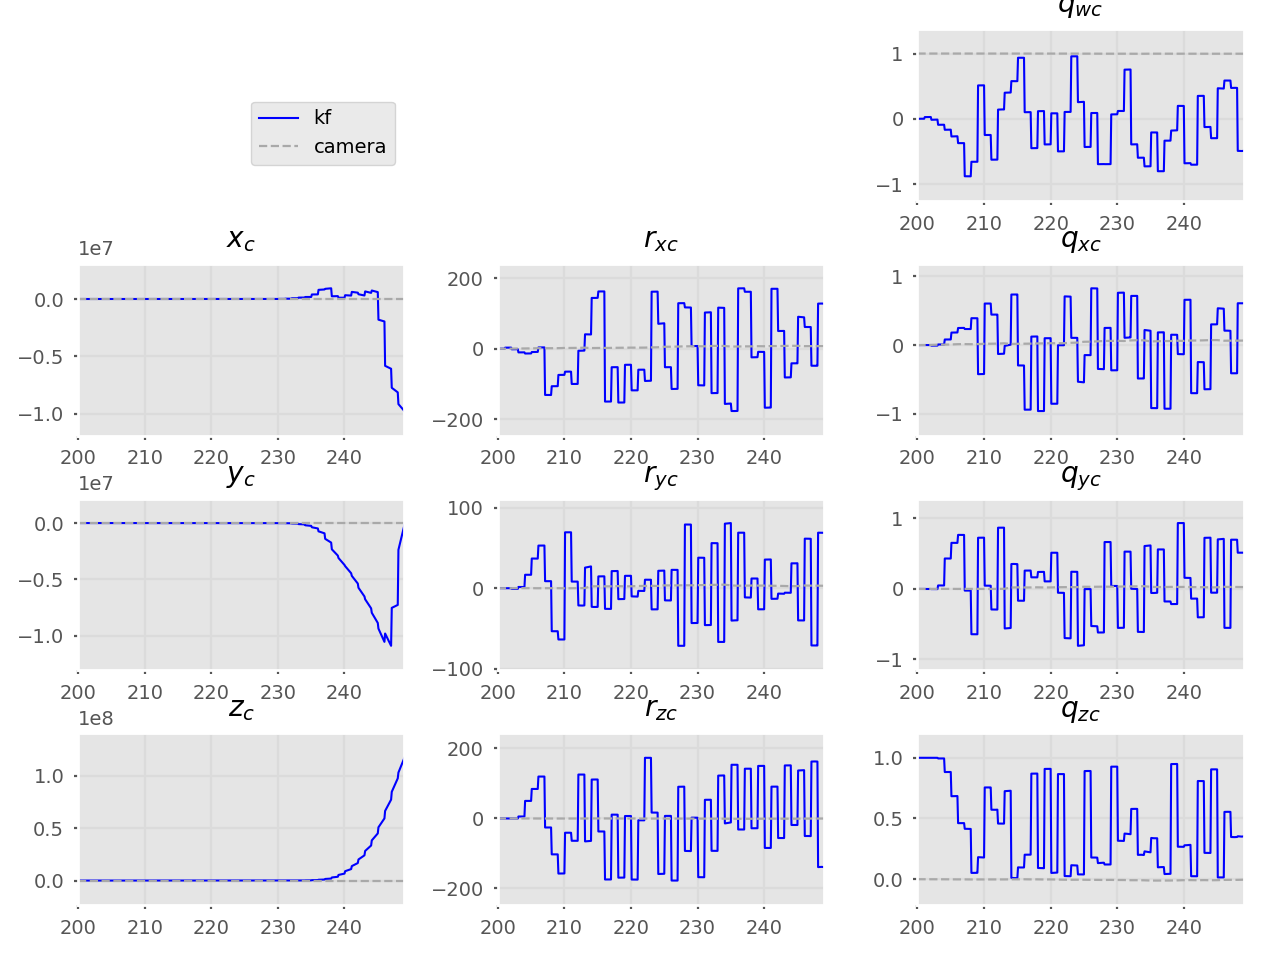
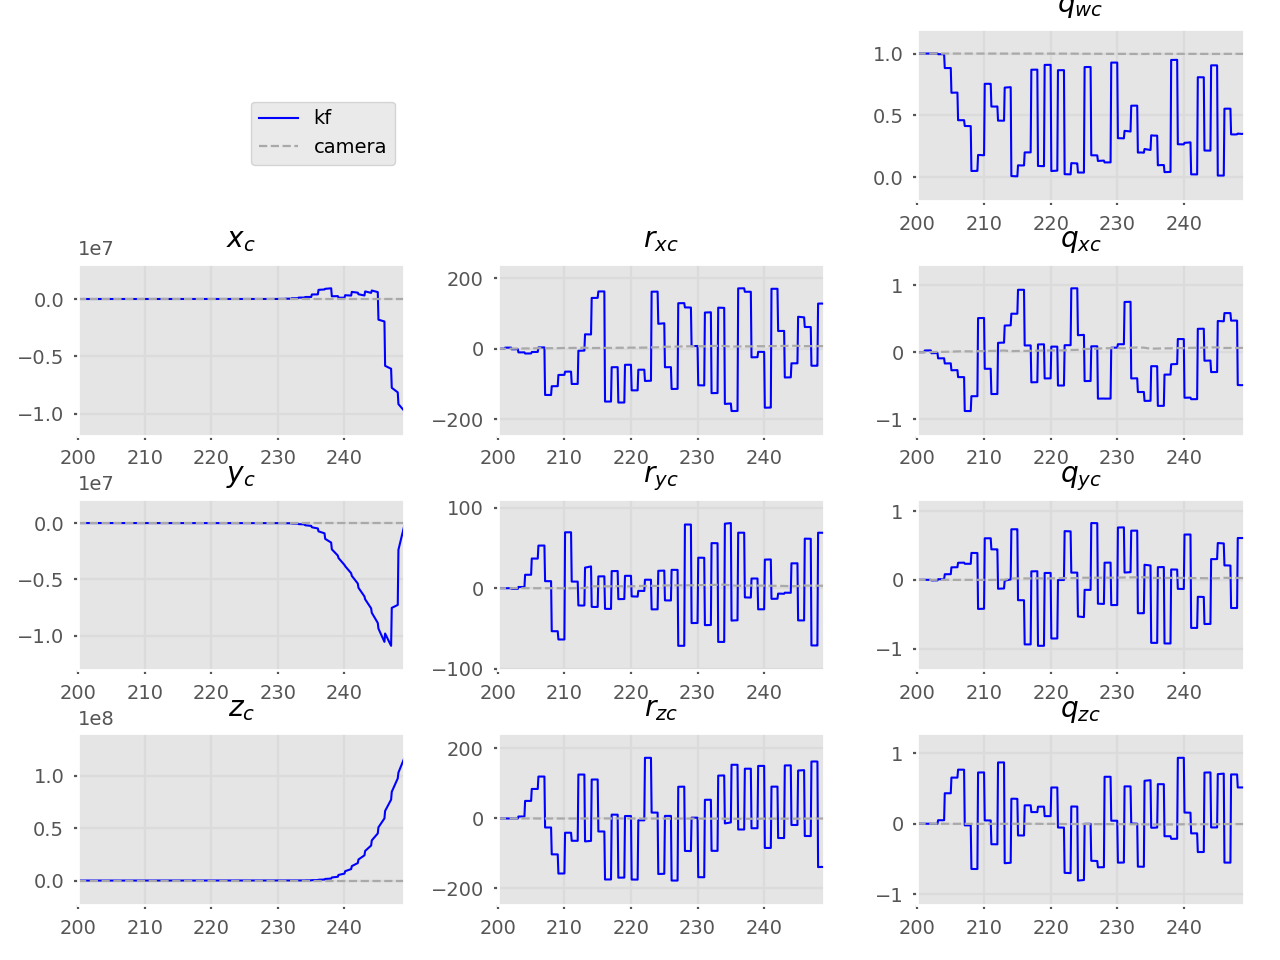
readme: updated mono traj plots

diff --git a/readme.md b/readme.md
@@ -5,8 +5,13 @@ the calibration parameters in a camera-IMU sensor probe setup.
 [Program outline](https://www.evernote.com/l/AeQSiL2U6txCWbgNAi1G9mUtWune-gjHNlU/)
 
 ## Current results
-![](img/kf_mono_imu.png)
-![](img/kf_mono_cam.png)
+P only  | P + U | P + U | P + U
+---     | ---   | ---   | --- |
+&nbsp;  | `stdev_a, stdev_om = 1e-3`  | `stdev_a, stdev_om = 1e-3` | `stdev_a, stdev_om = 1e-3`  
+&nbsp;  | **`cov_p = 1000`** | **`cov_p = 0.1`**  | **`cov_p = 1e-6`**
+&nbsp;  | `cov_q = 0.05` | `cov_q = 0.05` | `cov_q = 0.05`
+![](img/kf_mono_prop_imu.png) | ![](img/kf_mono_upd_Rp1000.0_Rq0.05_imu.png) | ![](img/kf_mono_upd_Rp0.1_Rq0.05_imu.png) | ![](img/kf_mono_upd_Rp1e-06_Rq0.05_imu.png)
+![](img/kf_mono_prop_cam.png) | ![](img/kf_mono_upd_Rp1000.0_Rq0.05_cam.png) | ![](img/kf_mono_upd_Rp0.1_Rq0.05_cam.png) | ![](img/kf_mono_upd_Rp1e-06_Rq0.05_cam.png)
 
 ## Probe
 ```
